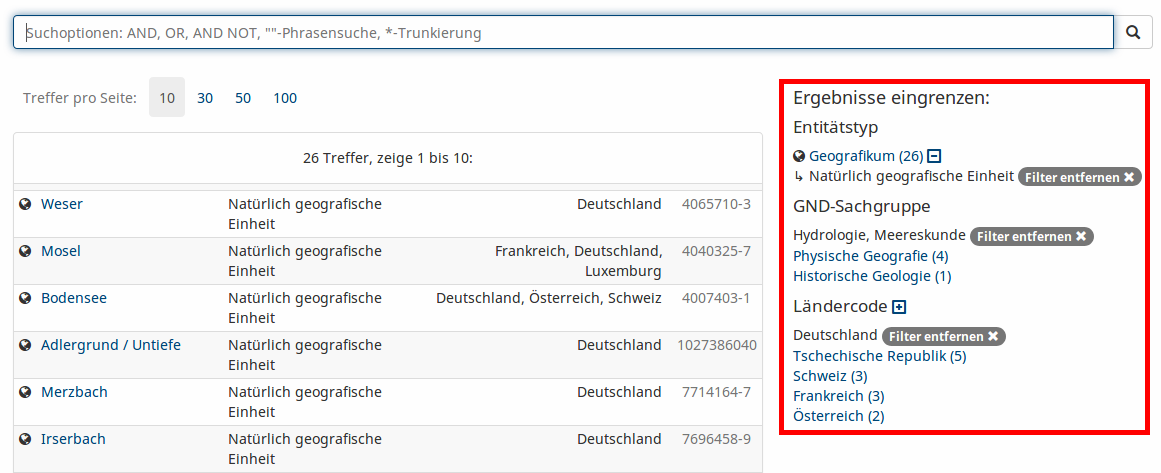
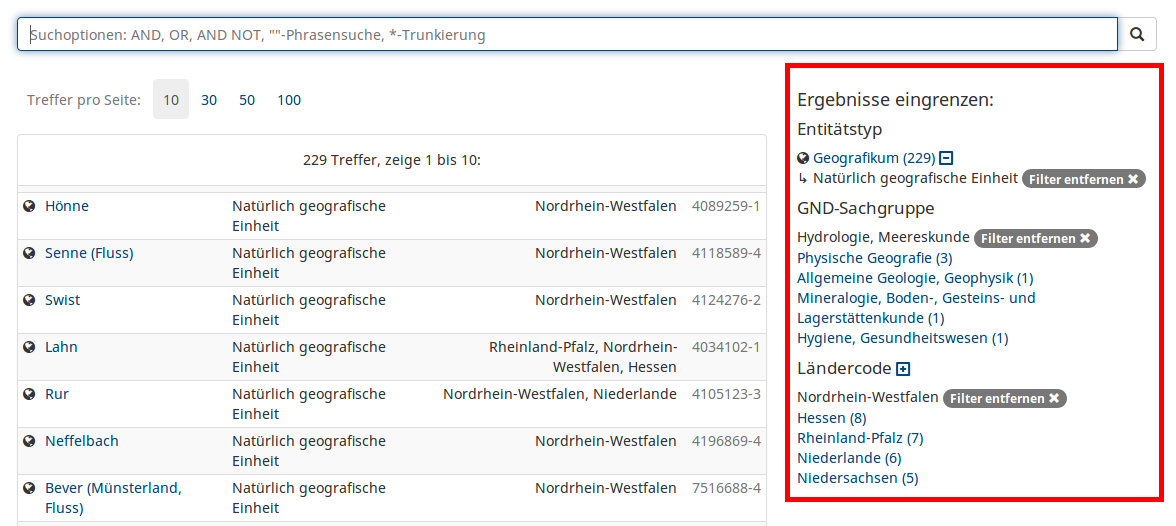
Update date and multi-facet sample
See https://github.com/hbz/lobid-gnd/issues/133

diff --git a/_posts/2018-07-04-lobid-gnd-suche.md b/_posts/2018-07-04-lobid-gnd-suche.md
@@ -1,7 +1,7 @@
 ---
 layout: post
 title: "lobid-gnd: Suche und Navigation"
-date: 2018-07-03
+date: 2018-07-04
 author: Fabian Steeg
 ---
 
@@ -33,7 +33,7 @@ Entitätstypen sind in Untertypen differenziert:
 
 ![http://lobid.org/gnd/search](/images/lobid-gnd-suche/5-facetten-untertypen.png)
 
-Über die Auswahl unterschiedlicher Facetten lässt sich die Treffermenge präzise eingrenzen, z.B. zur Anzeige aller hydrologischen Geografika in Deutschland:
+Über die Auswahl unterschiedlicher Facetten lässt sich die Treffermenge präzise eingrenzen, z.B. zur Anzeige aller hydrologischen Geografika in Nordrhein-Westfalen:
 
 ![http://lobid.org/gnd/search](/images/lobid-gnd-suche/6-1-facetten-filter.png)
 
